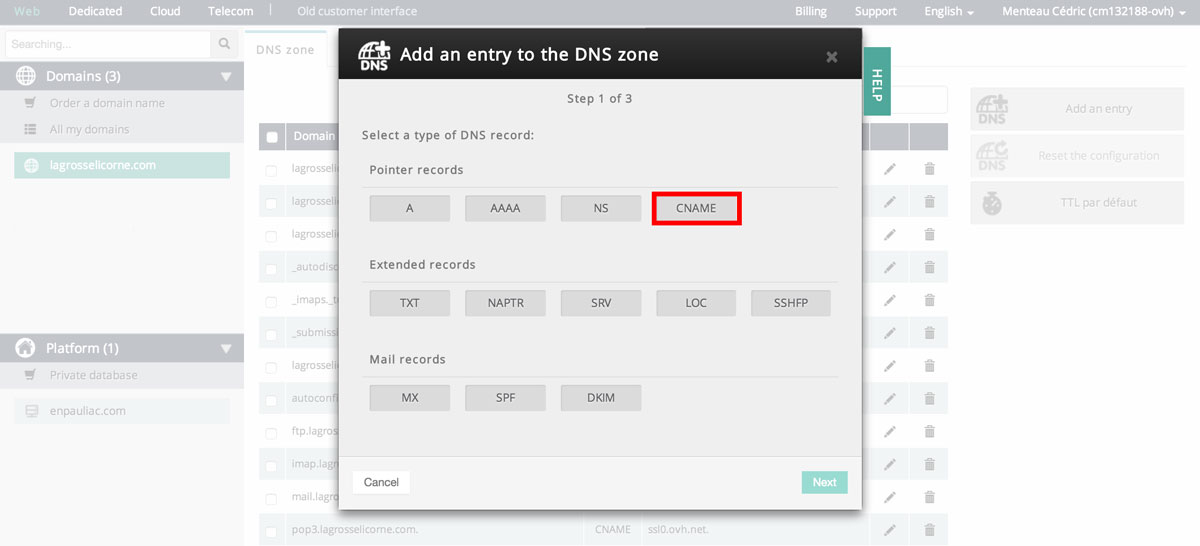
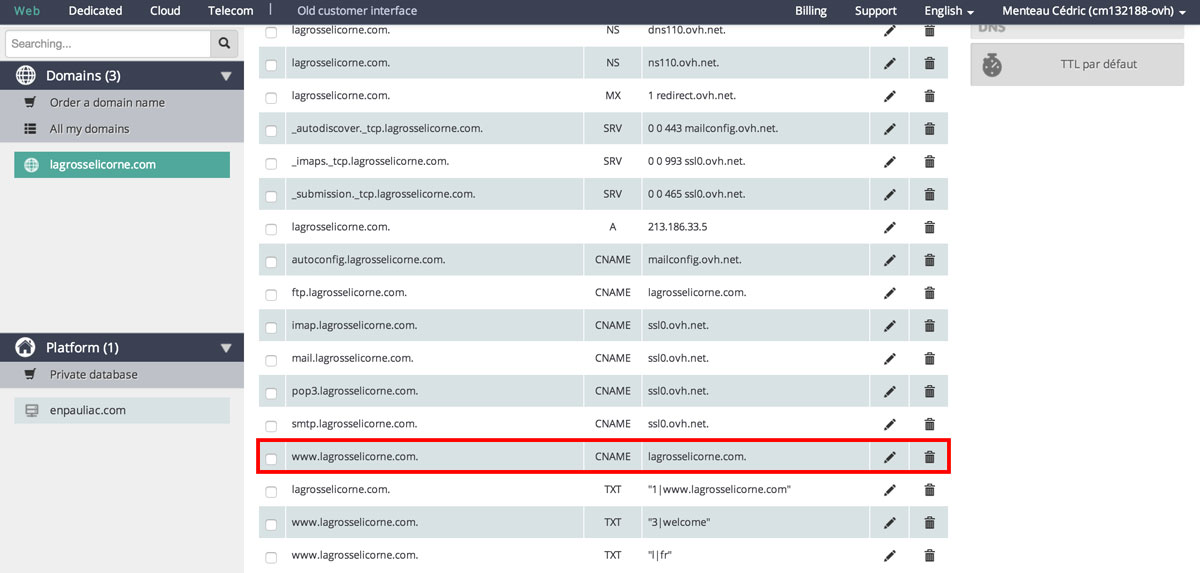
Change edit CNAME in OVH

diff --git a/posts/2014-11-28-siteweb-domaine-mail-personalise.md b/posts/2014-11-28-siteweb-domaine-mail-personalise.md
@@ -52,18 +52,19 @@ Une fois le paiement terminé, attendez quelques minutes avant de recevoir votre
 
 En premier lieu, rendez-vous sur le [Manager OVH](https://www.ovh.com/manager/web/login/). Connectez-vous grace à votre identifiant et mot de passe.
 
-Cliquez ensuite sur votre nouveau **nom de domaine** dans la colonne de gauche, puis sur l'onglet **DNS Zone**. Dirigez-vous ensuite sur le bouton **Add an entry**.
+Cliquez ensuite sur votre nouveau **nom de domaine** dans la colonne de gauche, puis sur l'onglet **DNS Zone**.
 
 ![Configuration des DNS - étape 1](blog_image_path tuto-dns-1.jpg)
 
-Sélectionnez un type de champs de pointage ```CNAME```
+Dans la liste, cherchez l'entrée ```www.votreprojet.com.``` de type **CNAME** et cliquez sur l'icône afin de l'éditer.
 
 ![Configuration des DNS - étape 2](blog_image_path tuto-dns-2.jpg)
 
 Dans le formulaire suivant :
-- Remplissez le champs **Sub-domain** avec ```www```
-- Sélectionnez TTL par défaut
-- **Target** doit pointer vers l'adresse de votre repository Github : ```<votre_username_github>.github.io.```
+
+- Laissez le champs **Sub-domain** avec ```www```
+- Dans le menu déroulant, sélectionnez TTL par défaut
+- Changer le champs **Target** pour le faire pointer vers l'adresse de votre repository Github : ```<votre_username_github>.github.io.```
 
 **important*** Le ```.``` à la fin est fondamental. **Ne l'oubliez pas !**
 
@@ -100,5 +101,5 @@ Dans un prochain tuto, nous verrons comment intégrer très simplement un formul
 - [OVH](https://www.ovh.com/fr/index.xml)
 - [OVH Manager](https://www.ovh.com/manager/web/login/)
 
-NB : Le Wagon n'est en aucun cas affilié à OVH et des alternatives telles que [Gandi](http://www.gandi.net/) et [GoDaddy](https://fr.godaddy.com/) sont toutes aussi efficaces !
+NB : Le Wagon n'est en aucun cas affilié à OVH et une alternative telle que [Gandi](http://www.gandi.net/) est toute aussi efficace !
 
